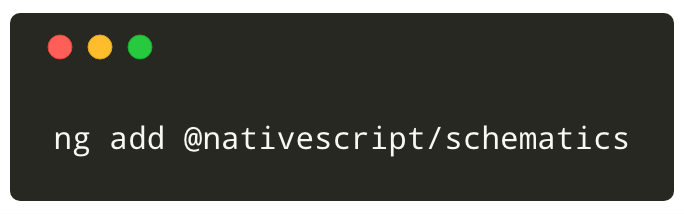
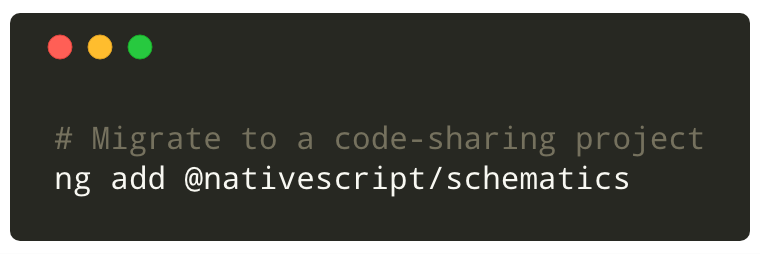
Update and trim the landing page

diff --git a/code-sharing-landing-page/code-sharing-landing-page.md b/code-sharing-landing-page/code-sharing-landing-page.md
@@ -25,11 +25,11 @@ There are a couple of ways to start building web and mobile apps from a code-sha
 
 ### A new project
 
-You can start from a new project and start building your apps from ground app.
+You can start from a new project and start building your apps from ground app. Call:
 
-Simply call:
 <!--
 ```
+# Create a code-sharing project
 ng new --collection=@nativescript/schematics app-name --shared
 ```
 -->
@@ -40,11 +40,10 @@ This is covered in more depth in the [creating a new project](https://docs.nativ
 
 ### Migrate an existing web project
 
-Alternatively you could **migrate** an existing web project to a code-sharing structure.
-
-Simply call:
+Alternatively you could **migrate** an existing web project to a code-sharing structure. Call:
 
 <!--```
+# Migrate to a code-sharing project
 ng add @nativescript/schematics
 ```-->
 
@@ -58,32 +57,18 @@ This is covered in more depth in the [migrating an existing web project](https:/
 
 Once you have a code-sharing project, building the apps is quite simple.
 
-**Web**
+Just use the **Angular CLI** to build your **Web apps**, and the **NativeScript CLI** to build your **Mobile apps**.
 
-To build a web app, you just need to use the Angular CLI:
-
-<!--```
-ng serve
-```
--->
-
-![ng serve](./img/bash-ng-serve.png?raw=true)
-
-**NativeScript**
-
-To build a mobile app, you need to use `NativeScript CLI` and `NativeScript Webpack`, like this:
+![ng serve](./img/bash-build.png?raw=true)
 
 <!--
-```bash
+# Build a Web app
+ng serve
+
+# Build a Mobile app
 tns run android --bundle
-```
-
-```bash
 tns run ios --bundle
-```
 -->
-
-![tns run android --bundle](./img/bash-tns-run.png?raw=true)
 
 You can learn more about the build process in the [docs](https://docs.nativescript.org/angular/code-sharing/build-process/).
 
@@ -95,6 +80,7 @@ The same applies to the internal logic of your components, and the code that def
 
 ![](./img/shared.png?raw=true)
 
+<!--
 ### Example Shopping Basket
 
 For example in order to add a **shopping basket** to our online store, we would need:
@@ -142,7 +128,7 @@ export class BasketService {
   }
 }
 ```
--->
+->
 
 ![basket.service.ts](./img/code-basket.service.ts.png?raw=true)
 
@@ -165,7 +151,7 @@ export class PaymentService {
   }
 }
 ```
--->
+->
 
 ![payment.service.ts](./img/code-payment.service.ts.png?raw=true)
 
@@ -215,7 +201,7 @@ export class BasketComponent implements onInit {
   }
 }
 ```
--->
+->
 
 ![basket.component.ts](./img/code-basket.component.ts.png?raw=true)
 
@@ -252,7 +238,7 @@ To create two separate templates, you just need to use a naming convention. Simp
   <button (click)="pay()">BUY NOW💰</button>
 </div>
 ```
--->
+->
 
 ![basket.component.html](./img/code-basket.component.html.png?raw=true)
 
@@ -277,13 +263,15 @@ To create two separate templates, you just need to use a naming convention. Simp
   <Button text="BUY NOW💰" (tap)="pay()"></Button>
 </StackLayout>
 ```
--->
+->
 
 ![basket.component.tns.html](./img/code-basket.component.tns.html.png?raw=true)
 
 Even though, the contents of **basket.component.html** and **basket.component.tns.html** is not quite the same, you can see that in general they follow the same structure. Both use the **async pipe** to load the data from **items$** and both use the component methods (**increaseQuantity(item)**, **pay()**).
 
 Check out the docs to learn more about [code splitting](https://docs.nativescript.org/angular/code-sharing/code-plitting)
+
+-->
 
 ## Documentation
 
